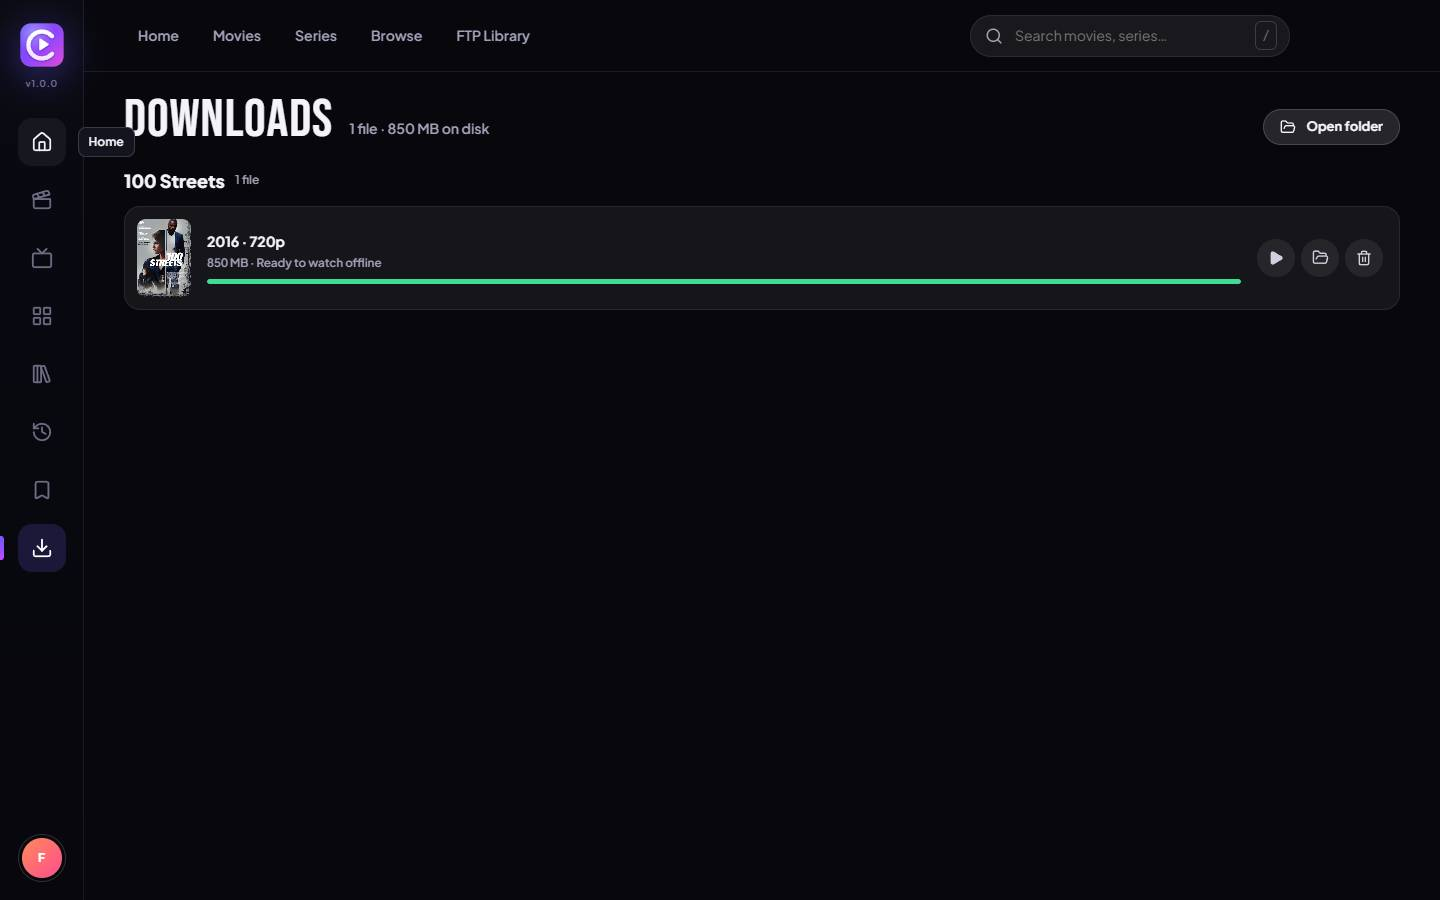
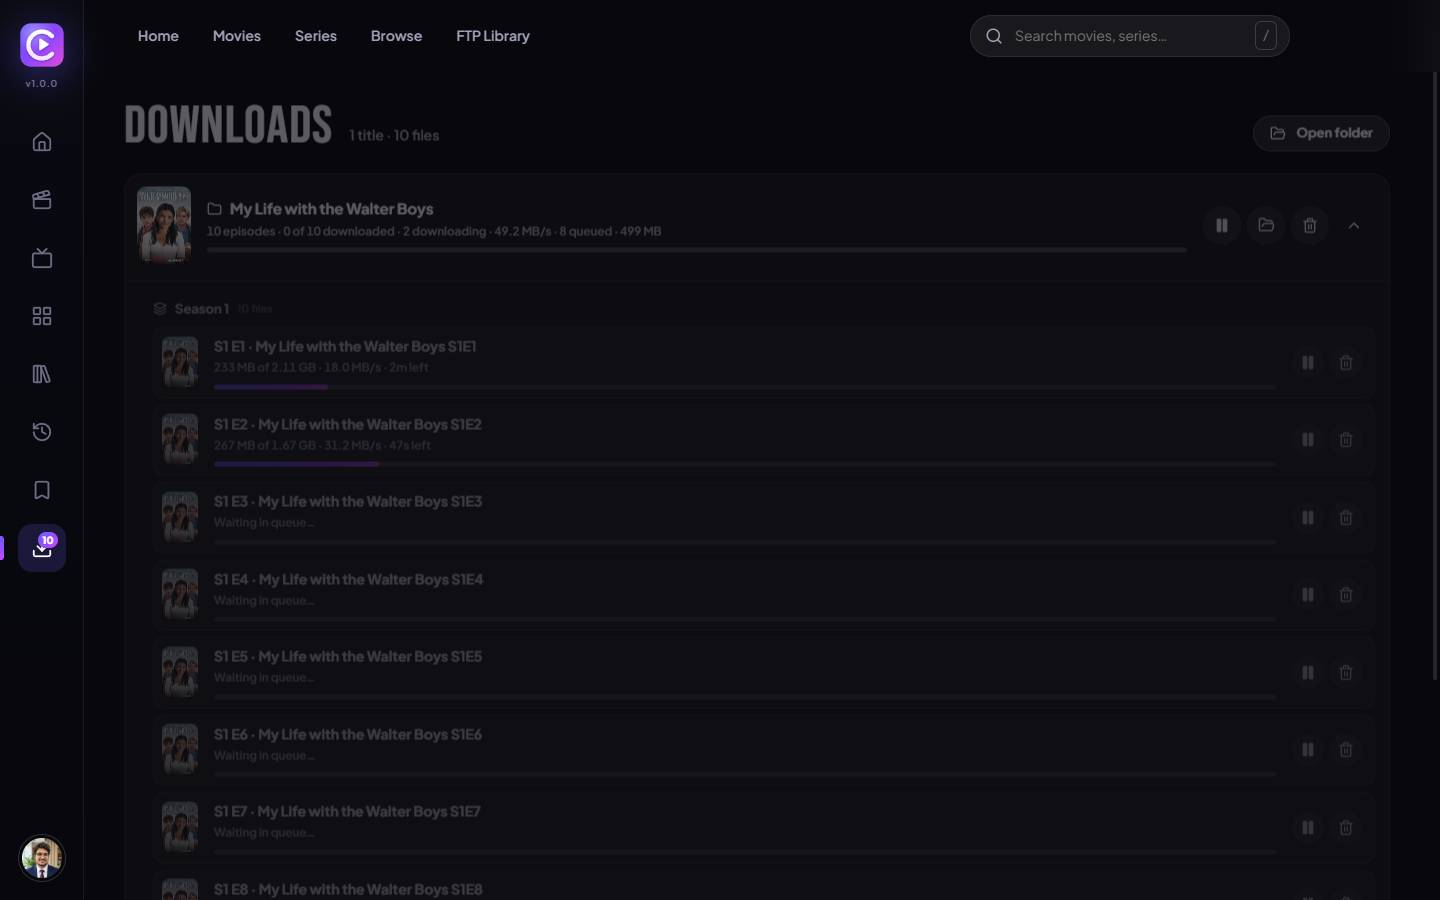
Docs: update README features and screenshot, add CHANGELOG

diff --git a/CHANGELOG.md b/CHANGELOG.md
@@ -1,0 +1,41 @@
+# Changelog
+
+All notable changes to CircleFlix are listed here.
+
+## 1.0.0 — 2026-11-21
+
+First public release.
+
+### Catalog
+- Home with trending titles, fresh uploads, per-category rows and Continue Watching
+- Movies, Series and Browse pages limited to video categories, with a year filter
+- FTP Library: browse every CircleFTP index server as a poster grid, with filter and sorting
+- Search across the whole catalog
+
+### Player
+- Plays MKV/MP4 with EAC3/AC3/DTS audio and HEVC video through a bundled FFmpeg gateway
+- Audio-language and subtitle switching (embedded tracks and sidecar files), three subtitle sizes
+- Seek anywhere, playback speed, next-episode countdown, fullscreen, keyboard shortcuts
+- Live download speed and cached-ahead indicator on the seek bar
+- Mini player: keep watching in a corner while browsing
+
+### Downloads
+- Download a single file, a whole season, or a whole FTP folder
+- Two parallel downloads with a queue, pause/resume, resumable after restart
+- Files organised as `Downloads/Circle Download/<Title (Year)>/<Season>/<file>`
+- Downloads page groups files into one expandable folder per title, seasons inside
+- Finished downloads play from disk
+
+### Profile and app
+- First-run welcome: name (required) and picture (optional) with a photo cropper
+- Profile page: total watch time, favourite time of day, favourite categories, most watched titles
+- Watch history with progress and resume, My List
+- Dark and light themes
+- Opening animation, version label, About section with repository and bug-report links
+- Window locked to default size or maximised/fullscreen
+
+### Fixed before release
+- Audio out of sync with the picture after seeking
+- Loading spinner staying on screen while the video was playing
+- Unclear error when a server is offline or a file is missing
+- Profile picture upload rejecting every image

diff --git a/README.md b/README.md
@@ -46,9 +46,20 @@ FFmpeg is bundled — nothing else to install.
 
 **Yours**
 - Watch **history** with progress bars and resume, plus **My List**
-- **Offline downloads** with pause/resume, saved to `Downloads/Circle Download/<Title>/<Season>/`
-- **Profile**: name and picture, total watch time, the time of day you watch most, favourite categories, most watched titles
+- **Offline downloads**: single files, a whole season, or a whole FTP folder in one click
+  - two files download at a time, the rest wait in a queue; pause and resume any time
+  - saved in tidy folders: `Downloads/Circle Download/<Title (Year)>/<Season>/<file>`
+  - the Downloads page shows one expandable folder per title with its seasons inside and a combined progress line
+  - finished files play from disk, even with no connection
+- **Profile**: first launch asks for your name (required) and a picture (optional, with a built-in
+  cropper); the profile page shows total watch time, the time of day you watch most, favourite
+  categories and most watched titles
 - **Dark and light** themes
+
+**App**
+- Opening animation, app version shown under the logo, About section with developer, repository and bug-report links
+- Clear errors when a server is offline or a file was removed
+- The window is either the default size or maximised/fullscreen — it cannot be dragged to odd sizes
 
 | Title page | Browse |
 | --- | --- |
@@ -112,6 +123,10 @@ build/          App icon (SVG source + generated PNG/ICO)
 
 Pushing a tag `vX.Y.Z` runs [the workflow](.github/workflows/release.yml), which builds the Windows
 installer and portable exe and attaches them to a GitHub Release.
+
+## Changelog
+
+See [CHANGELOG.md](CHANGELOG.md).
 
 ## Bugs and feedback
 
